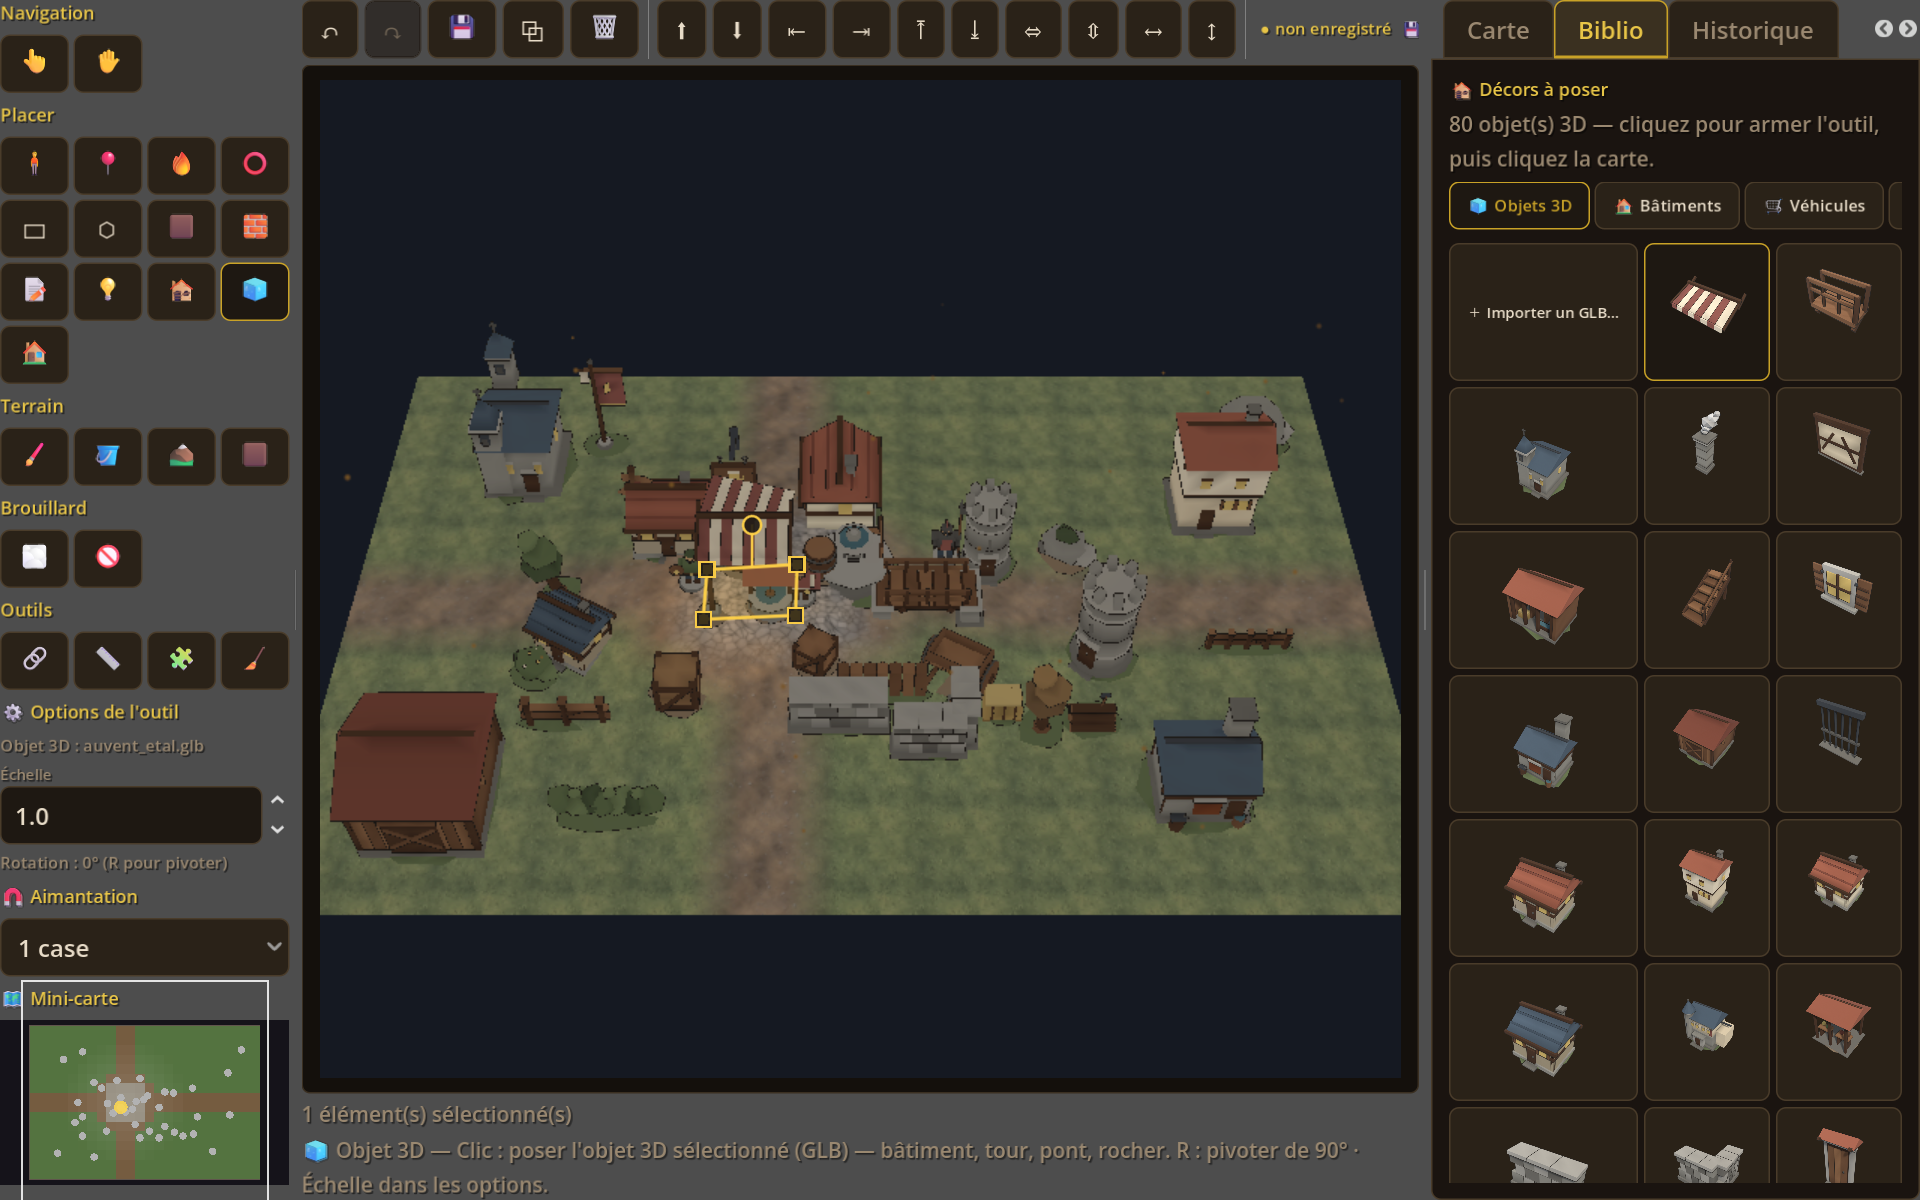
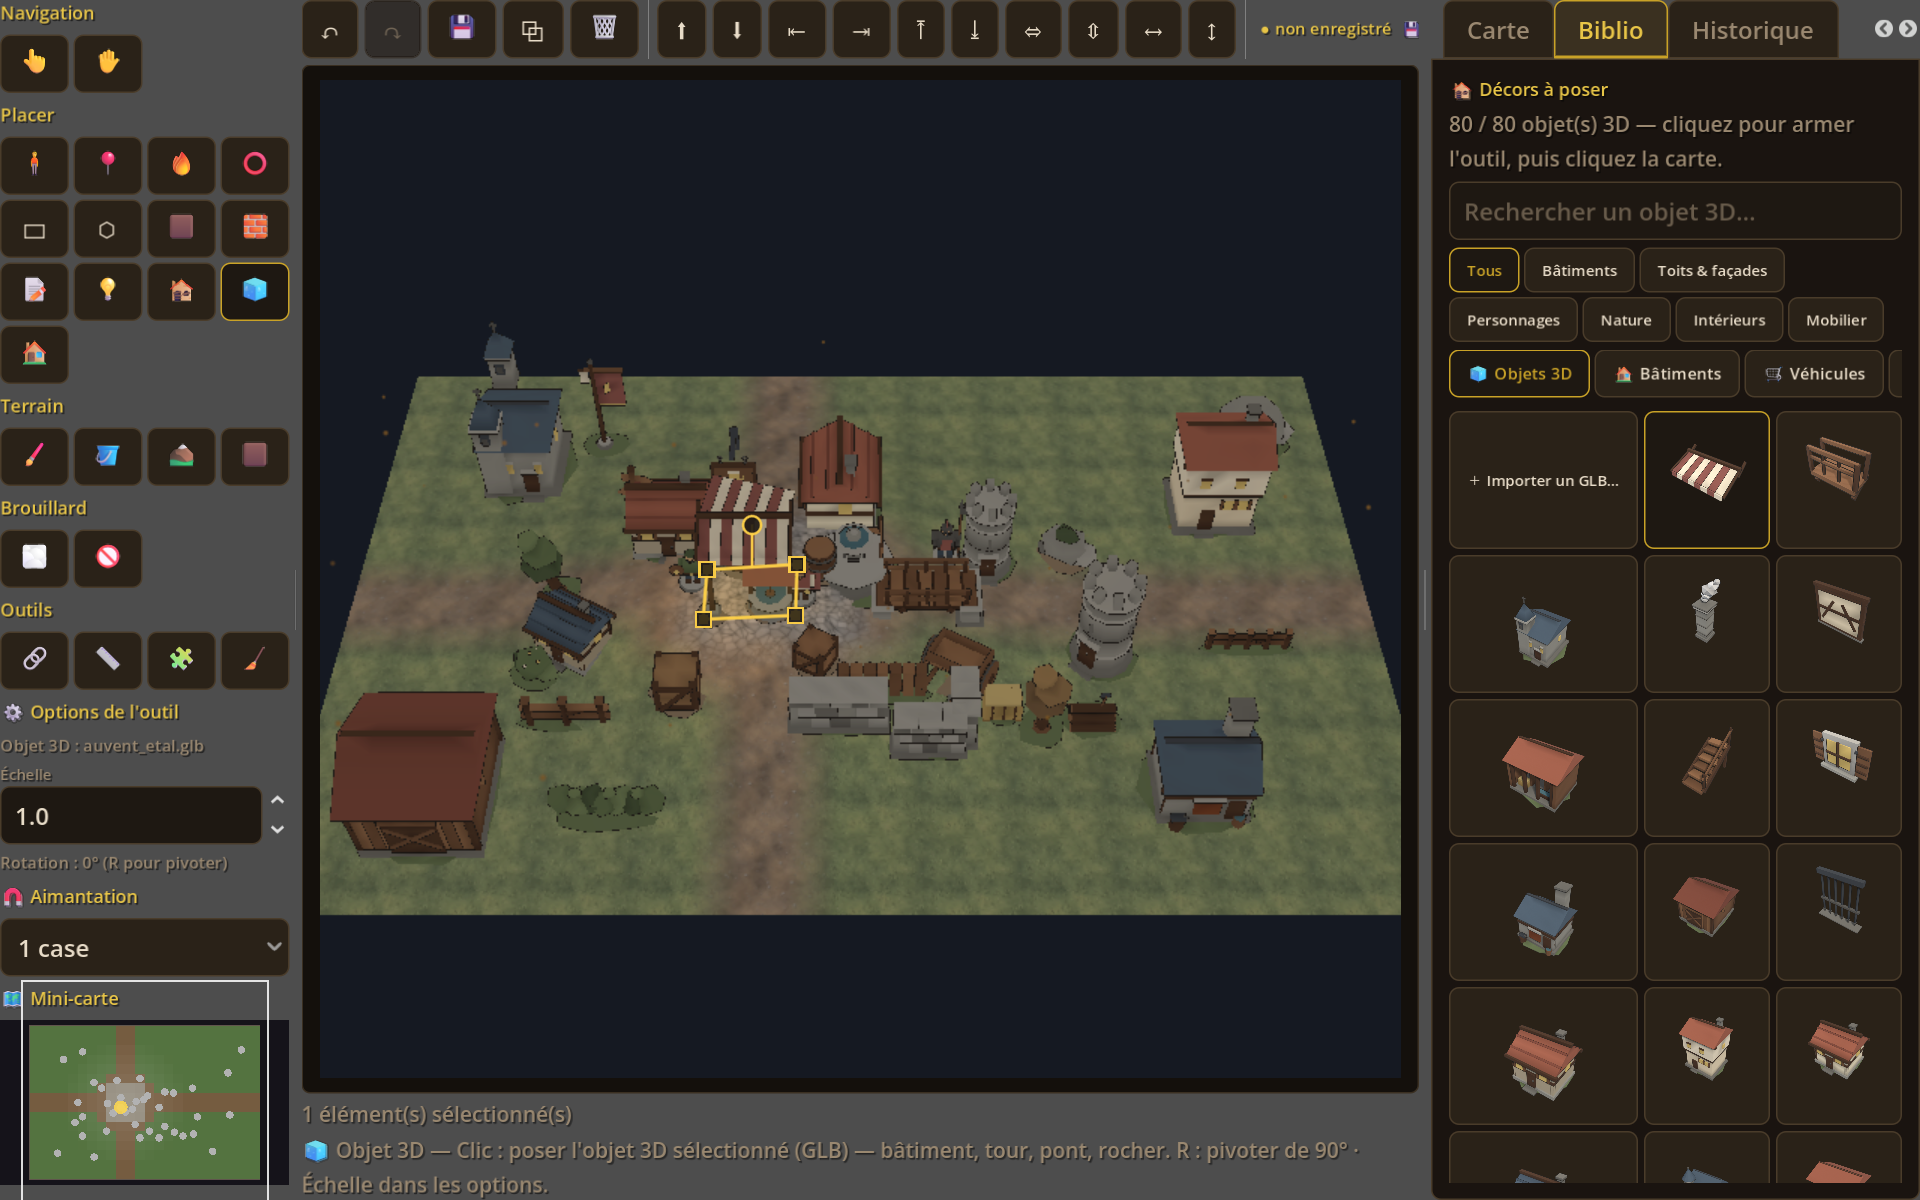
feat(editeur): recherche et filtres dans la bibliotheque 3D (80 objets)
- champ de recherche + filtres Tous/Batiments/Toits & facades/Personnages/Nature/Interieurs/Mobilier
- hint filtre/total ; test map_editor_library_filter_test ; capture editeur

diff --git a/docs/MAP_EDITOR.md b/docs/MAP_EDITOR.md
@@ -117,7 +117,9 @@ La carte 2.5D mêle découpes 2D (décors, tokens) et **meshes 3D**. L'outil
 section `meshes` de la carte (schéma 5), rendu par `MapMeshes3D`.
 
 - Les modèles vivent dans `game/assets/objects3d/<catégorie>/` (bâtiments,
-  props, végétation, terrain) ; ils sont listés dans **Biblio → 🧊 Objets 3D**.
+  props, végétation, terrain) ; ils sont listés dans **Biblio → 🧊 Objets 3D**
+  avec une **recherche** et des **filtres** (Tous, Bâtiments, Toits & façades,
+  Personnages, Nature, Intérieurs, Mobilier).
 - **＋ Importer un GLB…** ajoute un modèle `.glb`/`.gltf` à la bibliothèque de
   l'utilisateur (`user://map_assets/objects3d/imports/`), avec vignette générée
   automatiquement. Aucun outil externe requis pour ajouter ses propres bâtiments.
